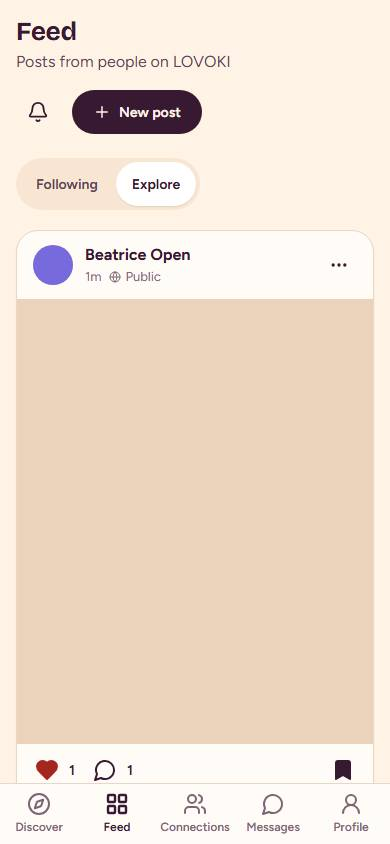
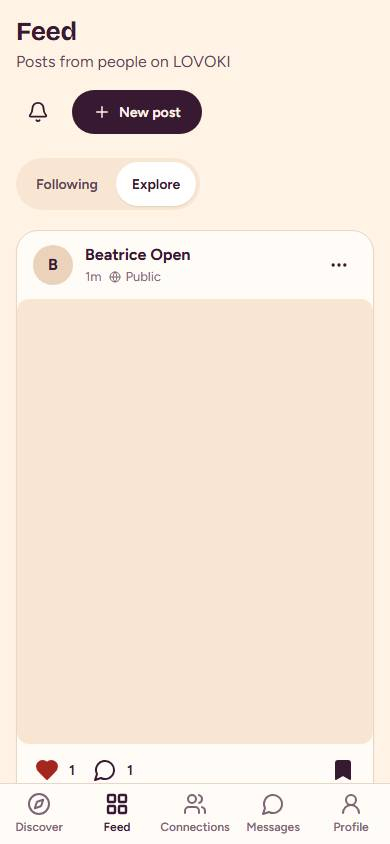
3.5: real-stack suites updated (identity onboarding, GeoNames places, grid-rounded storage)

Changed region(s): [[0.0308, 0.3389, 0.9538, 0.8934], [0.0615, 0.2773, 0.1846, 0.3389]]

diff --git a/scripts/real-e2e-dating.py b/scripts/real-e2e-dating.py
@@ -35,7 +35,7 @@ def main():
     if purged['others']:
         raise SystemExit(f"{purged['others']} other account(s) exist on this local database (for example seed users). Remove them first so the deck is predictable: node scripts/seed-local-users.mjs --remove")
     bea = dating_person('Bea Real', 'woman', 'men', 'lisbon'); cat = dating_person('Cat Real', 'woman', 'men', 'madrid')
-    dan = dating_person('Dan Real', 'man', 'women', 'lisbon'); eve = dating_person('Eve Real', 'woman', 'men', 'sintra')
+    dan = dating_person('Dan Real', 'man', 'women', 'lisbon'); eve = dating_person('Eve Real', 'woman', 'men', 'setubal')
     server = R.start_server(env)
     try:
         with sync_playwright() as p:
@@ -51,26 +51,30 @@ def main():
             email = f'alice.{uuid.uuid4().hex[:6]}@lovoki-e2e.test'; st = {}
 
             def signup():
-                goto(pg, '/signup'); pg.get_by_label('Email', exact=True).fill(email); pg.get_by_label('Password', exact=True).fill(R.PW); btn(pg, 'Create account').click()
+                goto(pg, '/signup'); pg.get_by_label('Email', exact=True).fill(email); pg.get_by_label('Password', exact=True).fill(R.PW); pg.locator('input[name=agree]').check(); btn(pg, 'Create account').click()
                 pg.wait_for_url('**/check-email'); pg.goto(R.mail_link(mail, email), wait_until='domcontentloaded'); pg.wait_for_url('**/onboarding/basics', timeout=20000)
                 R.onboard_via_ui(pg, 'Alice Real'); st['me'] = pg.evaluate("JSON.parse(localStorage.getItem('lovoki.auth')).user.id")
             T('REAL: sign up by email, confirm, onboard through the UI', signup)
 
             def needs_gender():
-                goto(pg, '/discover'); expect(pg.get_by_role('heading', name='Add your gender to start')).to_be_visible()
+                goto(pg, '/discover'); expect(pg.get_by_role('heading', name='Dating is paused')).to_be_visible()
                 assert 'Real' not in pg.inner_text('main').replace('Alice Real', ''), 'nobody is shown before the profile is ready'
-            T('REAL: Discover without a gender explains why and shows no one', needs_gender)
+            T('REAL: a new account starts paused, explains why and shows no one', needs_gender)
 
             def set_profile():
                 goto(pg, '/settings'); sec = pg.get_by_role('region', name='Dating profile')
+                row = R.helper('query', 'profiles', 'user_id', st['me'])[0]; assert row['gender'] == 'woman' and row['dating_discoverable'] is False, 'onboarding saved the gender; dating starts off (opt-in)'
                 sec.get_by_role('group', name='Your gender').get_by_role('button', name='Man', exact=True).click(); expect(pg.get_by_text('Gender saved.')).to_be_visible()
-                sec.get_by_label(re.compile('^Your city')).select_option(label='Lisbon, Portugal'); expect(pg.get_by_text('Your place is saved as Lisbon, Portugal.')).to_be_visible()
-                row = R.helper('query', 'profiles', 'user_id', st['me'])[0]; assert row['gender'] == 'man' and row['dating_discoverable'] is False, 'dating starts off (opt-in)'
+                pg.get_by_role('button', name=re.compile('^Remove Lisbon')).click(); expect(pg.get_by_text('Your city was removed.')).to_be_visible()
+                sec.get_by_role('combobox').fill('Lisb'); pg.get_by_role('listbox', name='Cities').get_by_role('option').first.click(); expect(pg.get_by_text('Your city is saved as Lisbon, Portugal.')).to_be_visible()
+                assert R.helper('query', 'profiles', 'user_id', st['me'])[0]['gender'] == 'man'
                 goto(pg, '/discover'); expect(pg.get_by_role('heading', name='Dating is paused')).to_be_visible()
                 goto(pg, '/settings'); pg.get_by_label('Show me in Discover').click(); expect(pg.get_by_text('Privacy settings saved.')).to_be_visible()
                 assert R.helper('query', 'profiles', 'user_id', st['me'])[0]['dating_discoverable'] is True
-                pl = R.helper('query', 'profile_places', 'user_id', st['me'])[0]; assert (float(pl['lat']), float(pl['lng'])) == (38.72, -9.14)
-            T('REAL: gender and city saved through Settings (place stored rounded)', set_profile)
+                pl = R.helper('query', 'profile_places', 'user_id', st['me'])[0]
+                assert all(abs(round(float(pl[k]) / 0.05) * 0.05 - float(pl[k])) < 1e-6 for k in ('lat', 'lng')), f'stored on the ~5 km grid: {pl}'
+                rows = R.helper('query', 'profile_places', 'user_id', st['me']); assert len(rows) == 1
+            T('REAL: gender and city saved through Settings (place stored rounded to a ~5 km grid)', set_profile)
 
             def deck():
                 goto(pg, '/discover'); R.wait_posts if False else None; pg.wait_for_selector('[data-testid=dating-card]', timeout=20000)
@@ -83,7 +87,7 @@ def main():
             T('REAL: the deck offers exactly the compatible people, and the card photo loads through a signed URL', deck)
 
             def buckets():
-                for who, want in [(bea, 'Less than 5 km away'), (eve, 'Less than 25 km away'), (cat, 'More than 100 km away')]:
+                for who, want in [(bea, 'Less than 5 km away'), (eve, 'Less than 50 km away'), (cat, 'More than 100 km away')]:
                     goto(pg, f"/discover/{who['id']}"); pg.wait_for_selector('[data-testid=dating-card]'); assert want in pg.inner_text('main'), f"{who['email']}: {want}"
                     html = pg.content(); assert not re.search(r'38\.7\d|-9\.1\d|40\.42|date_of_birth', html)
                 goto(pg, f"/discover/{dan['id']}"); expect(pg.get_by_role('heading', name='This person isn’t available')).to_be_visible()
@@ -131,9 +135,9 @@ def main():
 
             def filters_persist():
                 CUR['pg'] = pg; goto(pg, '/discover'); pg.wait_for_selector('[data-testid=dating-card]'); btn(pg, re.compile('^Filters')).click(); d = pg.get_by_role('dialog')
-                d.get_by_label('Distance').select_option(label='Within 25 km'); d.get_by_role('button', name='Save filters').click(); expect(pg.get_by_text('Filters saved.')).to_be_visible()
-                assert R.helper('query', 'dating_preferences', 'user_id', st['me'])[0]['max_distance_km'] == 25
-                names = fresh_names(pg, lambda: pg.reload()); assert cat['id'] not in names and eve['id'] in names, f'Madrid is beyond 25 km: {names}'
+                d.get_by_label('Distance').select_option(label='Within 50 km'); d.get_by_role('button', name='Save filters').click(); expect(pg.get_by_text('Filters saved.')).to_be_visible()
+                assert R.helper('query', 'dating_preferences', 'user_id', st['me'])[0]['max_distance_km'] == 50
+                names = fresh_names(pg, lambda: pg.reload()); assert cat['id'] not in names and eve['id'] in names, f'Madrid is beyond 50 km: {names}'
                 expect(pg.get_by_role('button', name=re.compile('^Filters, \\d+ active'))).to_be_visible()
                 btn(pg, re.compile('^Filters')).click(); d = pg.get_by_role('dialog'); d.get_by_label('Distance').select_option(label='Any distance'); d.get_by_role('button', name='Save filters').click(); expect(pg.get_by_text('Filters saved.').first).to_be_visible()
                 assert R.helper('query', 'dating_preferences', 'user_id', st['me'])[0]['max_distance_km'] is None, 'filter removed again'

diff --git a/scripts/real-e2e.py b/scripts/real-e2e.py
@@ -85,13 +85,16 @@ def stop_server(proc):
     else: proc.kill()
 
 def onboard_via_ui(pg, name):
-    pg.wait_for_url('**/onboarding/basics'); pg.locator('#displayName').fill(name); pg.locator('#dateOfBirth').fill('1996-04-18'); btn(pg, 'Continue').click()
-    pg.wait_for_url('**/onboarding/about'); btn(pg, 'Cooking', True).click(); pg.locator('#bio').fill('Real browser test account.'); btn(pg, 'Continue').click()
+    pg.wait_for_url('**/onboarding/basics'); pg.locator('#displayName').fill(name); pg.locator('#dateOfBirth').fill('1996-04-18')
+    handle = 'alice.' + uuid.uuid4().hex[:6]; pg.get_by_label('Username', exact=True).fill(handle); pg.get_by_label('Woman', exact=True).check()
+    expect(pg.get_by_text('Available.', exact=False).first).to_be_visible(timeout=8000); btn(pg, 'Continue').click()
     pg.wait_for_url('**/onboarding/preferences'); pg.get_by_label('Long-term partner').check(); pg.get_by_label('Women', exact=True).check(); btn(pg, 'Continue').click()
     pg.wait_for_url('**/onboarding/photos'); pg.locator('input[type=file]').set_input_files([FIX + '/p1.png', FIX + '/p2.jpg'])
     pg.wait_for_function("document.querySelectorAll('.photo-tile').length >= 2 && !document.querySelector('.photo-tile[data-busy=\"true\"]')", timeout=30000)
-    btn(pg, 'Continue').click(); pg.wait_for_url('**/onboarding/privacy'); pg.locator('#areaLabel').fill('Lisbon'); btn(pg, 'Continue').click()
+    btn(pg, 'Continue').click(); pg.wait_for_url('**/onboarding/privacy')
+    box = pg.get_by_role('combobox'); box.fill('Lisb'); pg.get_by_role('listbox', name='Cities').get_by_role('option').first.click(); expect(pg.get_by_test_id('place-chosen')).to_contain_text('Lisbon'); btn(pg, 'Continue').click()
     pg.wait_for_url('**/onboarding/review'); btn(pg, 'Finish setup').click(); pg.wait_for_url('**/discover', timeout=15000)
+    return handle
 
 def main():
     env = helper('env'); mail = env['MAIL']
@@ -108,11 +111,11 @@ def main():
             email = f'alice.{uuid.uuid4().hex[:6]}@lovoki-e2e.test'; state = {}
 
             def signup_and_confirm():
-                goto(pg, '/signup'); pg.get_by_label('Email', exact=True).fill(email); pg.get_by_label('Password', exact=True).fill(PW); btn(pg, 'Create account').click()
+                goto(pg, '/signup'); pg.get_by_label('Email', exact=True).fill(email); pg.get_by_label('Password', exact=True).fill(PW); pg.locator('input[name=agree]').check(); btn(pg, 'Create account').click()
                 pg.wait_for_url('**/check-email'); link = mail_link(mail, email); pg.goto(link, wait_until='domcontentloaded')
                 pg.wait_for_url('**/onboarding/basics', timeout=20000)
             T('REAL email: sign-up sends a confirmation mail, the link signs the user in and opens onboarding', signup_and_confirm)
-            T('REAL onboarding through the UI with real photo uploads, finishing at the app', lambda: onboard_via_ui(pg, 'Alice Real'))
+            T('REAL onboarding through the UI with username, gender, consent, a GeoNames city and real photo uploads, finishing at the app', lambda: state.__setitem__('handle', onboard_via_ui(pg, 'Alice Real')))
             state['me'] = None
 
             def my_id():
